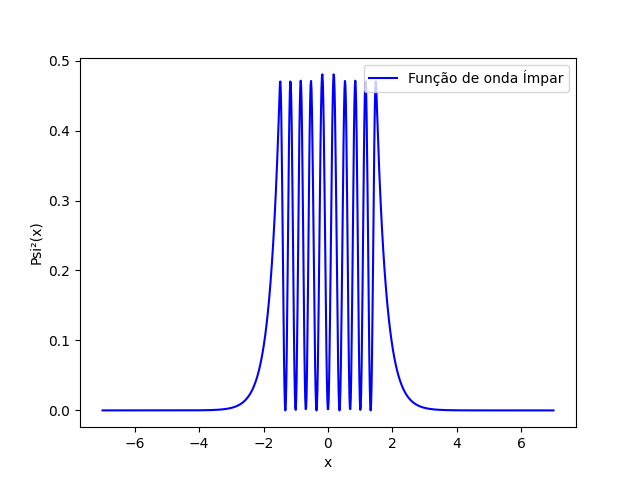
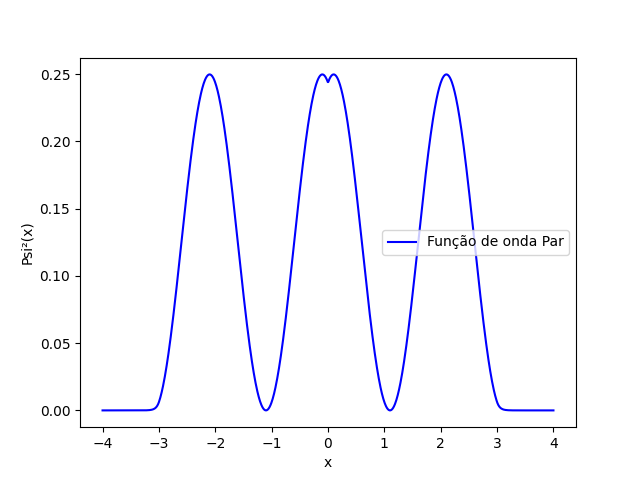
Função concatenate agora  no módulo de energia

diff --git a/dwell/dwell_analytic.py b/dwell/dwell_analytic.py
@@ -5,6 +5,7 @@ import sys
 import numpy as np
 from scipy.integrate import quad
 from scipy import optimize
+from Eig_E import finder_roots
 import warnings 
 
 warnings.simplefilter("ignore", np.ComplexWarning) #A função quad dá warnings quando o número é real porem do tipo n + 0j, onde n é real.
@@ -32,6 +33,8 @@ n = float(config['delta']['n'])
 a = float(config['poco']['a'])
 L = float(config['poco']['L'])
 
+#Print para eigen_function.py
+
 if not __name__ == '__main__':
     print("......PARÂMETROS DA ROTINA...... \n")
     print("mass............................... %f\n" % mass)
@@ -42,22 +45,13 @@ if not __name__ == '__main__':
     print("L............................... %f\n" % L)
 
 
-
 # +-------------------------------+
 # |       ENERGIAS PRÓPRIAS       |
 # +-------------------------------+
 
 
-#Energias Pares
-E_p = np.loadtxt('../dwell/dat/eig_energy_p.txt')
-#print('Energias Pares \n',E_p)
-
-#Energias Ímpares
-E_i = np.loadtxt('../dwell/dat/eig_energy_i.txt')
-#print('\n Energias Ímpares \n',E_i)
-
 #Energias Totais
-E_t = np.sort(np.concatenate((E_p, E_i)))
+E_t = np.loadtxt('../dwell/dat/eig_energy_total.txt')
 #print(E_t)
 
 # +-------------------------------+
@@ -75,6 +69,7 @@ if n_quantico <= 0 or n_quantico > len(E_t):
     print("Insira valores para n_quantico entre 1 e ",len(E_t)," e tente novamente")
     sys.exit()
 
+
 # +-------------------------------+
 # |   EQUAÇÕES Q_1 , Q_2 , Q_3    |
 # +-------------------------------+
@@ -82,8 +77,6 @@ if n_quantico <= 0 or n_quantico > len(E_t):
 q_1 = np.sqrt((2*mass*(V_D-V_B+E_t)/h_bar**2)+0j)[n_quantico - 1]
 q_2 = np.sqrt((2*mass*(V_D+E_t))/h_bar**2)[n_quantico - 1]
 q_3 = np.sqrt((2*mass*E_t)/h_bar**2+0j)[n_quantico - 1]
-
-
 
 
 # +-------------------------------+
@@ -118,11 +111,11 @@ F = -((q_2)*np.cos(sigma_2_pos-delta)-np.abs(q_3)*np.sin(sigma_2_pos-delta))/(2*
 #Condicional para n_quantico Par
 if not paridade == 0:
     A = (np.sin(sigma_2_neg-delta)*np.cos(sigma_1)-q_2/q_1*np.cos(sigma_2_neg-delta)*np.sin(sigma_1))
-
+    #print(A)
 #Condicional para n_quantico Ímpar    
 else:
     B = (np.sin(sigma_2_neg - delta)*np.sin(sigma_1)+(q_2/q_1)*np.cos(sigma_2_neg - delta)*np.cos(sigma_1))
-    
+    #print(B)
     
 # +-------------------------------+
 # |         NORMALIZAÇÃO          |
@@ -160,9 +153,11 @@ def normal_constant(H):
     return H**2*(int_1 + int_2 + int_3) - 0.5
 
 #Solução para H negativo
-root = optimize.brentq(normal_constant,-1,-0.01)
+#root = optimize.brentq(normal_constant,-1,-0.01)
+root = finder_roots.find_roots(normal_constant,-2,0,1000000)
 
-print(root)
+if __name__ == '__main__':
+    print('Constante H:',root)
 
 # +-------------------------------+
 # |  FUNÇÕES DE ONDA POR REGIÃO   |

diff --git a/dwell/Eig_E/eig_energy.py b/dwell/Eig_E/eig_energy.py
@@ -41,12 +41,7 @@ def func_even(E):
     f_2 = np.real((sigma_1*np.tan(sigma_1)))
     return f_1 - f_2
 
-# Salva as Energias respectivas
-
-E_p = [finder_roots.find_roots(func_even,-V_D+0.01,-0.01,1000)]
-np.savetxt("../dat/eig_energy_p.txt",E_p[0])
-if __name__ == '__main__':
-    print('\nEnergias Pares: \n',E_p)
+E_p = [finder_roots.find_roots(func_even,-V_D+0.01,-1e-5,1000)][0]
 
 # Energia Ímpar:
 
@@ -62,12 +57,22 @@ def func_odd(E):
     f_2 = np.real((sigma_1*1/(np.tan(sigma_1))))
     return f_1 + f_2
 
-# Salva as Energias respectivas
+E_i = [finder_roots.find_roots(func_odd,-V_D+0.01,-1e-5,1000)][0]
 
-E_i = [finder_roots.find_roots(func_odd,-V_D+0.01,-0.01,1000)]
-np.savetxt("../dat/eig_energy_i.txt",E_i[0])
+#Energias totais em ordem crescente
+
+E_t = np.sort(np.concatenate((E_p, E_i)), axis=None)
+
+#Salva as energias concatenadas entre pares e ímpares
+
+np.savetxt("../dat/eig_energy_total.txt",E_t)
+
 if __name__ == '__main__':
-    print('\n Energias Ímpares: \n',E_i)
+    print('\n Energias Totais')
+    print(E_t)
+    print('\n Níveis de Energia: ',len(E_t))
+
+    
       
 
 #EOF

diff --git a/dwell/Eig_E/finder_roots.py b/dwell/Eig_E/finder_roots.py
@@ -8,7 +8,7 @@ import numpy as np
 def zbrak(func,xmin,xmax,nsteps):
 
     dx = abs(xmax-xmin)/nsteps # Define a largura do passo
-    ds = dx/4 # Caso a raiz esteja exatamente sobre o intervalo ele gera um pequeno deslocamnto ds
+    ds = dx/8 # Caso a raiz esteja exatamente sobre o intervalo ele gera um pequeno deslocamnto ds
 
 
     a = xmin
@@ -59,7 +59,7 @@ def find_roots(func,x1,x2,ndiv):
         #   Essa parte do código faz o teste se a raíz encontrada é de fato uma raíz da equação
         root_test = func(root)
         if abs(root_test)<1E-9:
-             #print(root_test) # Teste para verificar se o valor encontrado é uma função, desative o comentário para funcionar
+             #print(root_test) # Teste para verificar se o valor encontrado é uma raíz, desative o comentário para funcionar
              roots.append([root])
         m+=1
 

diff --git a/dwell/eigen_function.py b/dwell/eigen_function.py
@@ -26,7 +26,7 @@ if not paridade == 0:
 else:
     print('Função de onda Ímpar para n = ',n_quantico)
 
-t=np.linspace(-7,7,1000)
+t=np.linspace(-2*L,2*L,1000)
 plt.plot(t, np.array(list(map(psi_n, t)))**2,"b-")      #Elevar ao quadrado
 plt.ylabel('Psi²(x)')
 plt.xlabel('x')
